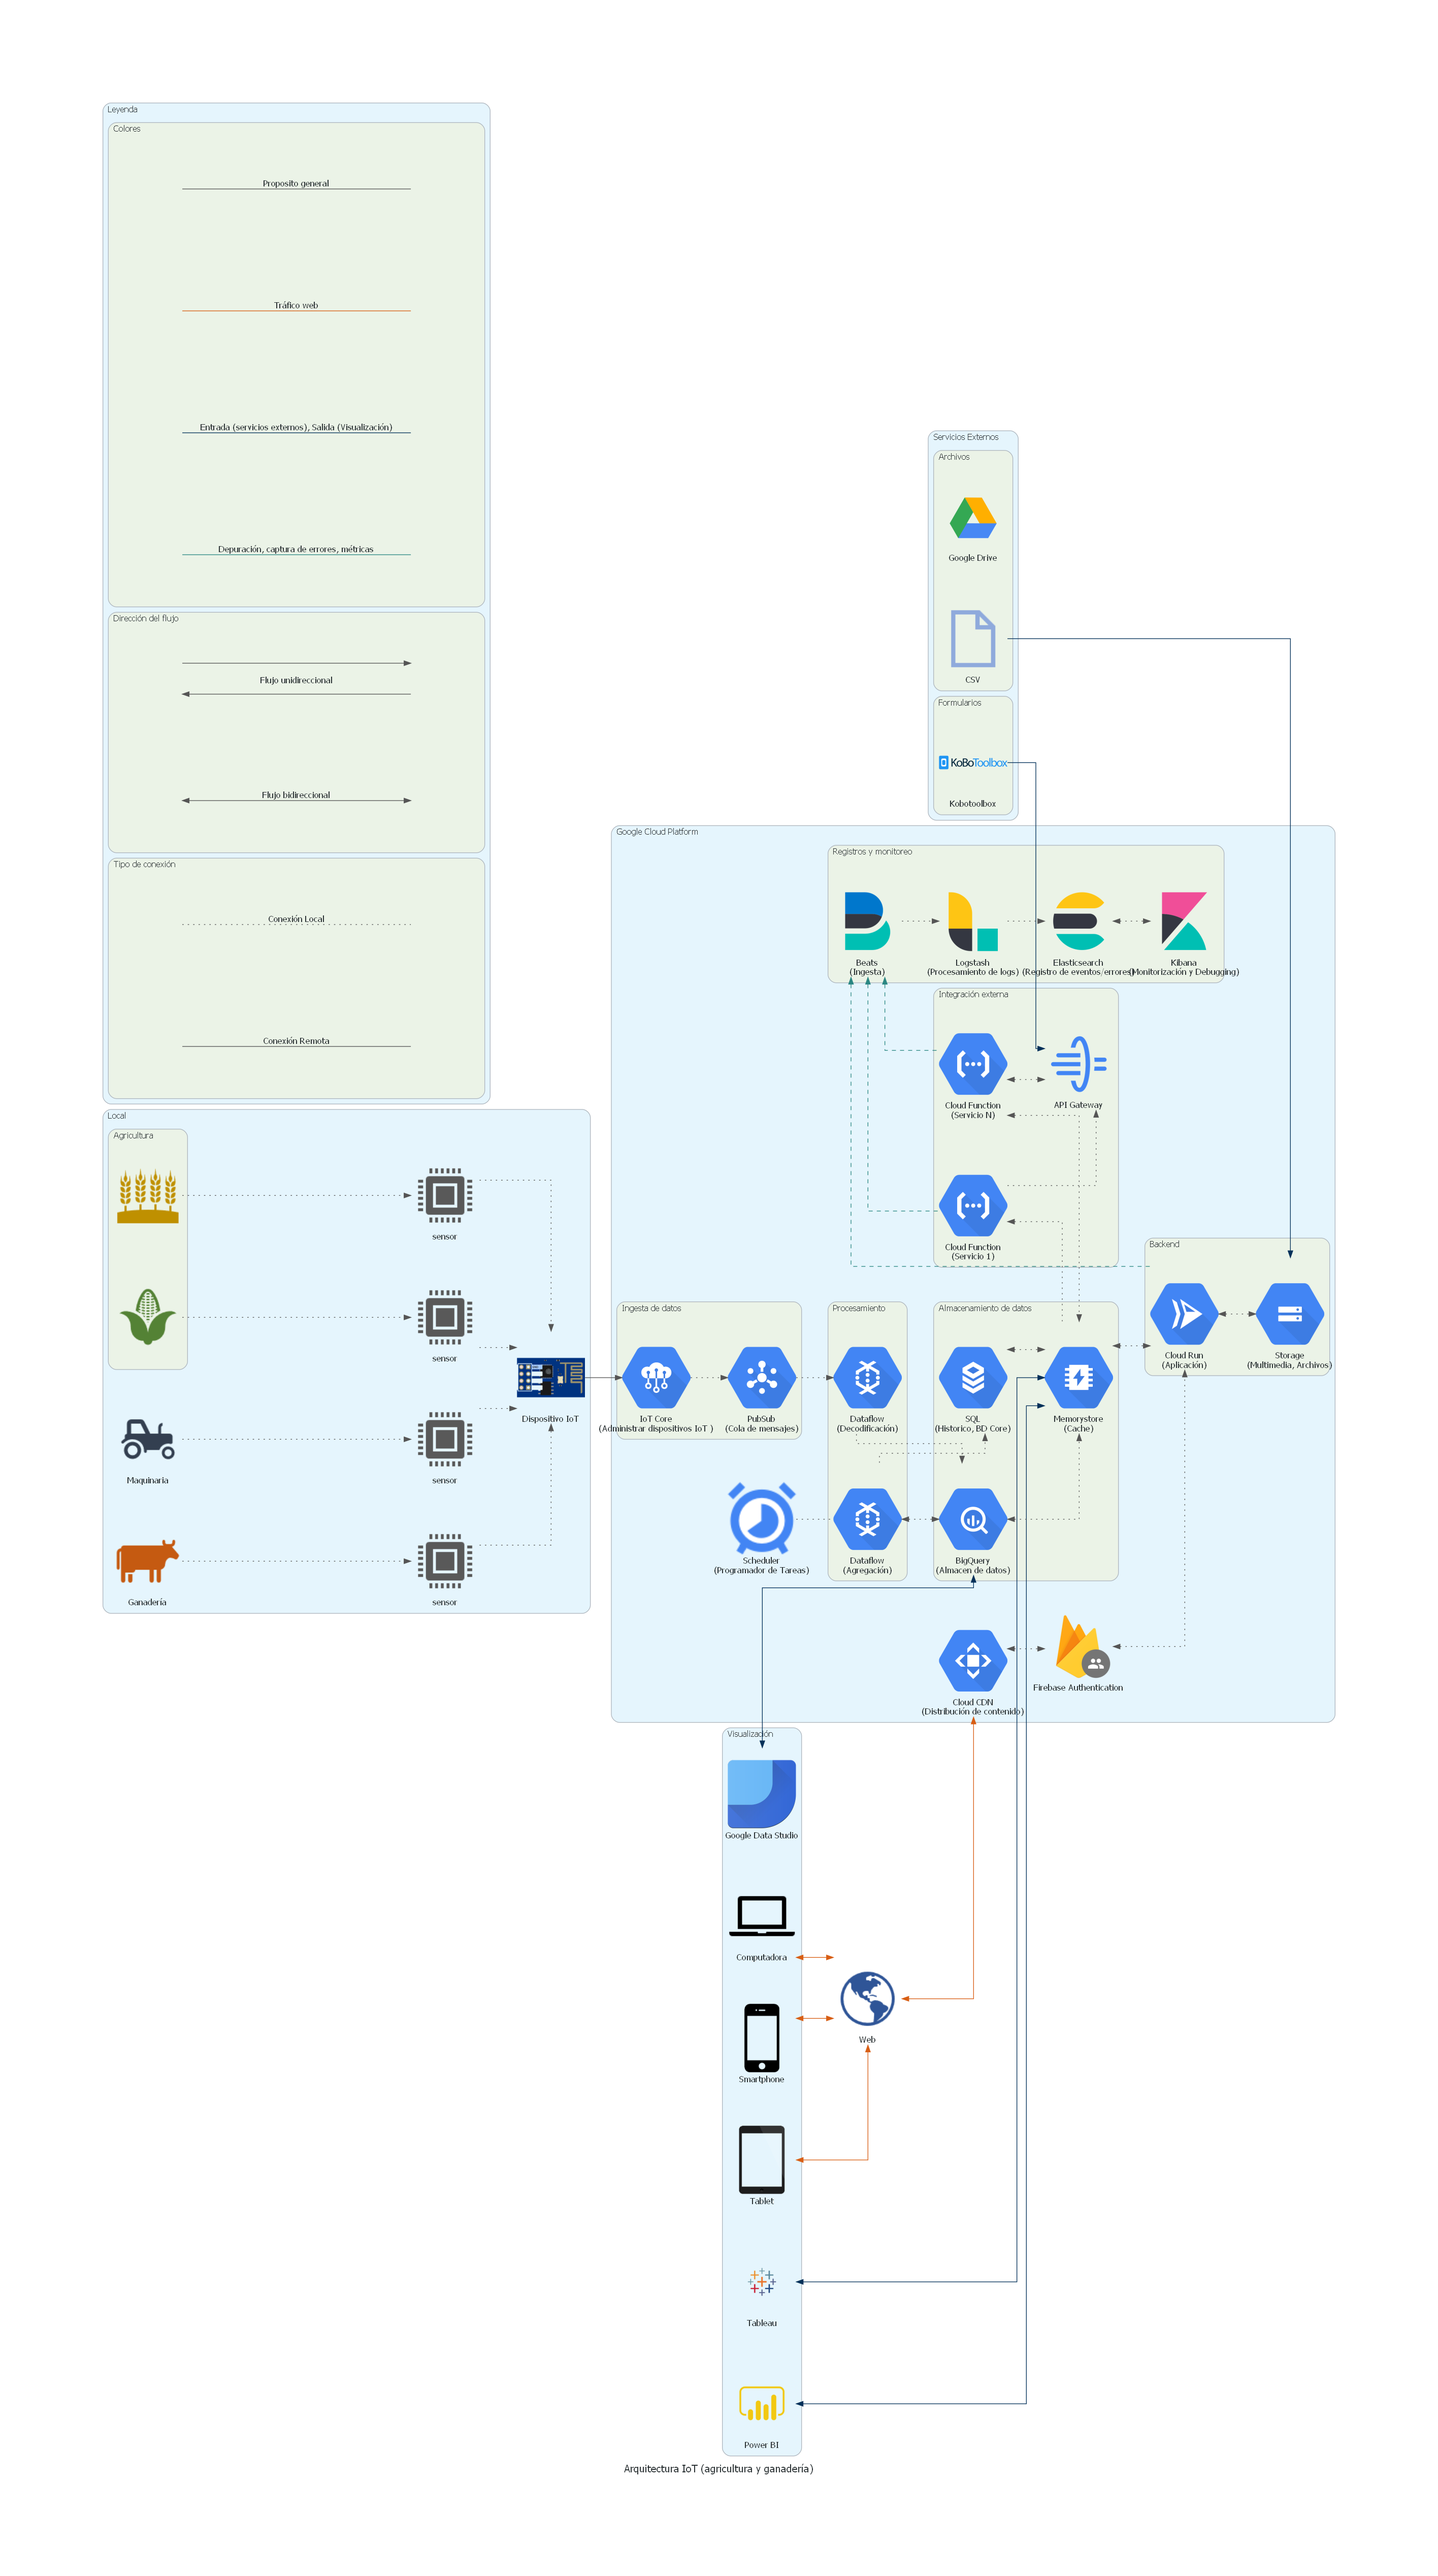
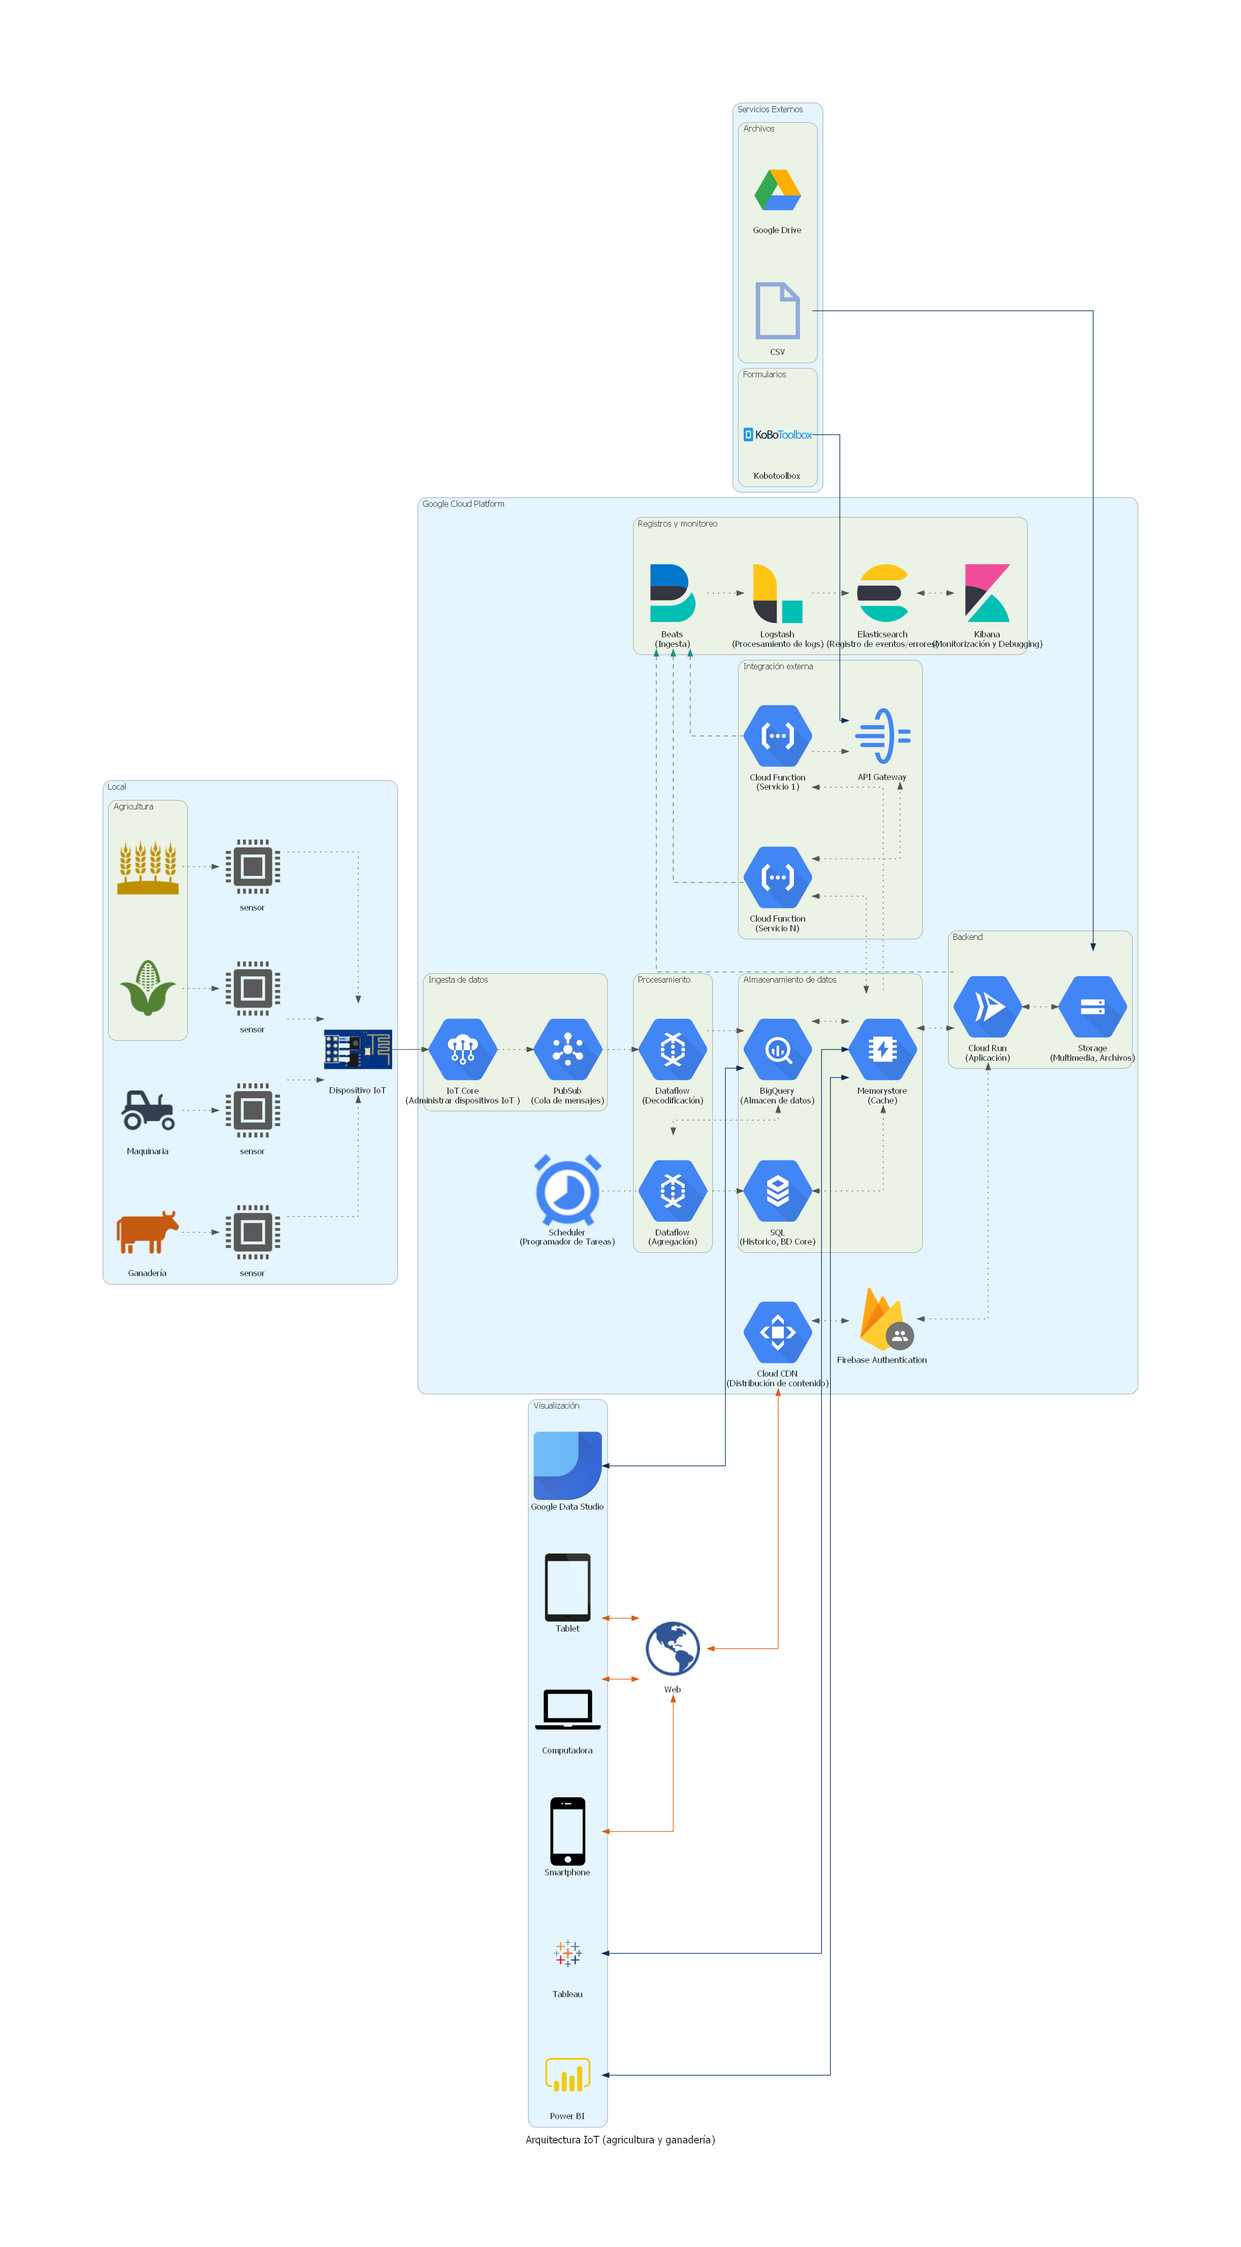
Separando la leyenda de los diagramas

Changed region(s): [[0.0622, 0.0312, 0.9333, 0.9668], [0.5911, 0.7485, 0.6222, 0.8108], [0.1867, 0.2495, 0.2178, 0.2807]]

diff --git a/1-iot-architecture/diagram.py b/1-iot-architecture/diagram.py
@@ -19,25 +19,8 @@ from diagrams.firebase.develop import Authentication
 from diagrams.generic.device import Mobile, Tablet
 from diagrams.elastic.elasticsearch import Elasticsearch, Kibana, Logstash, Beats
 
-with Diagram(name="Arquitectura IoT (agricultura y ganadería)", show=False, filename="iot-architecture"):  
+with Diagram(name="Arquitectura IoT (agricultura y ganadería)", show=False, filename="iot-architecture"):
   web = Custom("Web", "../assets/internet.png")
-
-  with Cluster("Leyenda"):
-    with Cluster("Tipo de conexión"):
-      Blank() - Edge(label="Conexión Local", color=colors.black, style="dotted") - Blank()
-      Blank() - Edge(label="Conexión Remota", color=colors.black) - Blank()
-    
-    with Cluster("Dirección del flujo"):
-      a_unidirectional, b_unidirectional = Blank(), Blank()
-      a_unidirectional >> Edge(label="Flujo unidireccional", color=colors.black) >> b_unidirectional
-      a_unidirectional << Edge(label="", color=colors.black) << b_unidirectional      
-      Blank() << Edge(label="Flujo bidireccional", color=colors.black) >> Blank()
-
-    with Cluster("Colores"):
-      Blank() - Edge(label="Proposito general", color=colors.black) - Blank()
-      Blank() - Edge(label="Tráfico web", color=colors.orange) - Blank()
-      Blank() - Edge(label="Entrada (servicios externos), Salida (Visualización)", color=colors.dark_blue) - Blank()
-      Blank() - Edge(label="Depuración, captura de errores, métricas", color=colors.light_blue) - Blank()
 
   with Cluster("Local"):    
     maquinaria = Custom("Maquinaria", "../assets/tractor.png")

diff --git a/2-tourist-kiosk/diagram.py b/2-tourist-kiosk/diagram.py
@@ -20,24 +20,7 @@ from diagrams.generic.device import Mobile, Tablet
 from diagrams.elastic.elasticsearch import Elasticsearch, Kibana, Logstash, Beats
 
 with Diagram(name="Arquitectura Quiosco turístico", show=False, filename="tourist-kiosk-architecture"):  
-  web = Custom("Web", "../assets/internet.png")
-
-  with Cluster("Leyenda"):
-    with Cluster("Tipo de conexión"):
-      Blank() - Edge(label="Conexión Local", color=colors.black, style="dotted") - Blank()
-      Blank() - Edge(label="Conexión Remota", color=colors.black) - Blank()
-    
-    with Cluster("Dirección del flujo"):
-      a_unidirectional, b_unidirectional = Blank(), Blank()
-      a_unidirectional >> Edge(label="Flujo unidireccional", color=colors.black) >> b_unidirectional
-      a_unidirectional << Edge(label="", color=colors.black) << b_unidirectional      
-      Blank() << Edge(label="Flujo bidireccional", color=colors.black) >> Blank()
-
-    with Cluster("Colores"):
-      Blank() - Edge(label="Proposito general", color=colors.black) - Blank()
-      Blank() - Edge(label="Tráfico web", color=colors.orange) - Blank()
-      Blank() - Edge(label="Entrada (servicios externos), Salida (Visualización)", color=colors.dark_blue) - Blank()
-      Blank() - Edge(label="Depuración, captura de errores, métricas", color=colors.light_blue) - Blank()   
+  web = Custom("Web", "../assets/internet.png")  
 
   with Cluster("Ingesta de datos"):
     with Cluster("Archivos"):

diff --git a/0-leyenda/diagram.py b/0-leyenda/diagram.py
@@ -1,0 +1,25 @@
+import sys
+import os
+sys.path.append(os.path.abspath("../shared/"))
+
+import colors
+from diagrams import Cluster, Diagram, Edge
+from diagrams.generic.blank import Blank
+
+with Diagram(show=False, filename="leyenda"):
+  with Cluster("Leyenda"):
+    with Cluster("Tipo de conexión"):
+      Blank() - Edge(label="Conexión Local", color=colors.black, style="dotted") - Blank()
+      Blank() - Edge(label="Conexión Remota", color=colors.black) - Blank()
+    
+    with Cluster("Dirección del flujo"):
+      a_unidirectional, b_unidirectional = Blank(), Blank()
+      a_unidirectional >> Edge(label="Flujo unidireccional", color=colors.black) >> b_unidirectional
+      a_unidirectional << Edge(label="", color=colors.black) << b_unidirectional      
+      Blank() << Edge(label="Flujo bidireccional", color=colors.black) >> Blank()
+
+    with Cluster("Colores"):
+      Blank() - Edge(label="Proposito general", color=colors.black) - Blank()
+      Blank() - Edge(label="Tráfico web", color=colors.orange) - Blank()
+      Blank() - Edge(label="Entrada (servicios externos), Salida (Visualización)", color=colors.dark_blue) - Blank()
+      Blank() - Edge(label="Depuración, captura de errores, métricas", color=colors.light_blue) - Blank()

diff --git a/README.md b/README.md
@@ -1,3 +1,7 @@
 # Arquitecturas FAO
 
 Diagramas de arquitecturas para sistemas que sean capaces de manejar datos cuantitativos y cualitativos
+
+# Leyenda
+
+![leyenda diagramas](./0-leyenda/leyenda.png)
